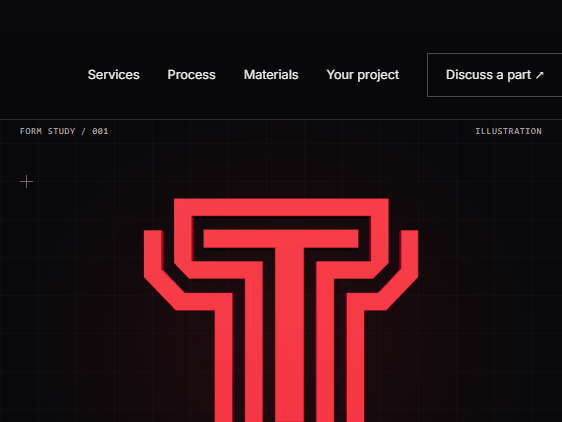
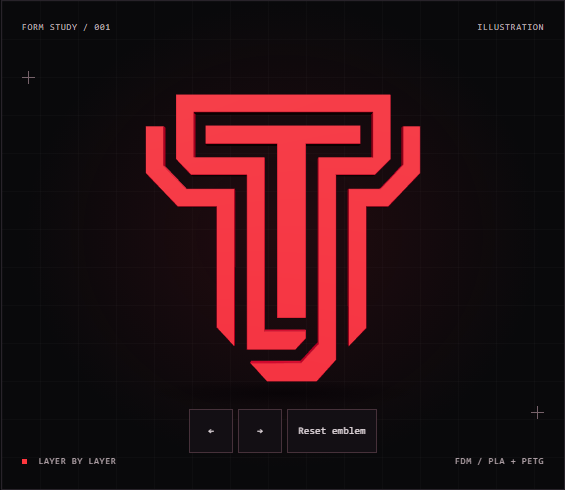
Correct complete-frame visual comparison captures

diff --git a/docs/PERFORMANCE_EMAIL_ENGINEERING.md b/docs/PERFORMANCE_EMAIL_ENGINEERING.md
@@ -66,6 +66,8 @@ Forced-GC JS heap observations: original 7,809,980 → 9,859,284 bytes; candidat
 
 Direct original-versus-final comparisons at 1440×900, 390×844 and 844×390 produced **changedRatio=0 and meanDelta=0** for both the neutral T and paused/reset gear: six exact comparisons. No tolerances were relaxed. Comparison screenshots and JSON are in performance-evidence/. Existing drag/reset pixel assertions remain in the suite.
 
+The initial review crops used viewport coordinates after scrolling and truncated part of the captured mobile logo. This was a capture error, not website clipping. They were replaced by complete element screenshots of the framed emblem/stage from the original build and final Worker. Only CSS animations are frozen during those review captures; the models are reset/paused explicitly. All six complete-frame comparisons again returned zero difference. The product geometry and animation code were not changed to correct the screenshots.
+
 | Actual renderer capture | Original | Candidate |
 |---|---|---|
 | Desktop T | ![Original T](performance-evidence/desktop-before-hero-crop.png) | ![Candidate T](performance-evidence/desktop-after-hero-crop.png) |
@@ -139,3 +141,5 @@ The additional navigation/back regression was added after the full local Worker 
 One accessibility helper initially targeted the stopped localhost:3110 server and failed connection-refused. It was corrected to the running final Worker at :8795 and all nine combinations passed. The isolated baseline also initially needed a workspace-local dependency junction/Turbopack resolution root; that setup failure was not counted as an application build pass. Red-phase pending-field, whitespace-ID and missing-file-clear failures were reproduced before fixing them.
 
 Local verification supports **conditional GO for an owner-reviewed foundation preview update**, retaining disabled sending/indexing and acknowledging software-GPU performance/physical-device limitations. It is **NO-GO for the commercial .com launch**. The final remote CI conclusion must be read from the pushed commit's Actions runs; local results do not substitute for it. No publication is performed by this recommendation.
+
+Application-source commit 5ac43383f3b3c7738a26fa8844e97fd91a2a7e18 passed both hosted workflows: [push run](https://github.com/zeez000/takween/actions/runs/45056789553) and [PR run](https://github.com/zeez000/takween/actions/runs/45056987916). Hosted logs confirm 29 unit passes and 51 browser passes with 13 project-specific skips. The complete-frame screenshot correction is a documentation-only follow-up; its final CI result is reported in PR #4 and the completion report.
